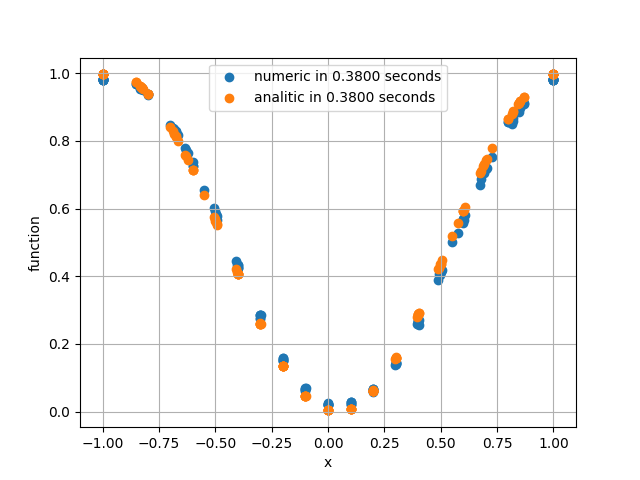
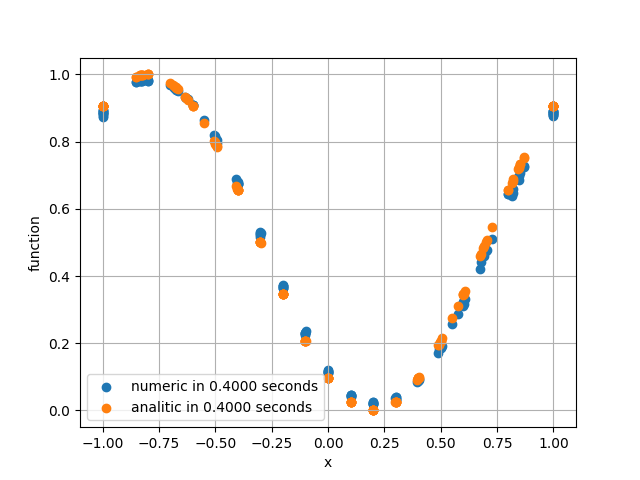
approximation

diff --git a/scripts/main.py b/scripts/main.py
@@ -2,6 +2,7 @@ import test
 import scipy as sp
 import numpy as np
 import time
+import matplotlib.pyplot as plt
 
 f = open('../rez/main_rez.txt', 'w')
 
@@ -9,7 +10,9 @@ scale = [0.2, 0.1, 0.05, 0.025, 0.0125]
 
 r = []
 h = []
-for i in range(2):
+hh = []
+h_d = []
+for i in range(5):
     print(i)
     f.write(str(i) + ' scale: ' + str(scale[i]) + ' ')
     start_time = time.time()
@@ -17,12 +20,32 @@ for i in range(2):
     f.write('dots: ' + str(tmp[1]) + ' step: '
             + str("{:10.4e}".format(1 / np.sqrt(tmp[1]))) + ' ')
     r.append(np.log(tmp[0]))
+    h_d.append(np.log(1 / tmp[1]))
+    hh.append(np.log(scale[i]))
     h.append(np.log(1 / np.sqrt(tmp[1])))
-    f.write('time: ' + str("{:10.4e}".format(time.time() - start_time)) + '\n')
+    f.write('time: ' + "%.4f"%(time.time() - start_time) + '\n')
 
 
 
 fp, residuals, rank, sv, rcond = sp.polyfit(h, r, 1, full=True)
-func = sp.poly1d(fp)
-f.write('\n' + 'function: ' + str(func) + '\n')
+func_1 = sp.poly1d(fp)
+f.write('\n' + 'function_(1/sqrt(dots)): ' + str(func_1) + '\n')
+fp, residuals, rank, sv, rcond = sp.polyfit(hh, r, 1, full=True)
+func_2 = sp.poly1d(fp)
+f.write('\n' + 'function_(scale): ' + str(func_2) + '\n')
+fp, residuals, rank, sv, rcond = sp.polyfit(h_d, r, 1, full=True)
+func_3 = sp.poly1d(fp)
+f.write('\n' + 'function_(1 / dots): ' + str(func_3) + '\n')
 f.close()
+plt.scatter(h, r, c='r', label=r'$\frac{1}{\sqrt{dots}}$')
+plt.scatter(hh, r, c='g',label=r'$\frac{1}{scale}$')
+plt.scatter(h_d, r, c='b',label=r'$\frac{1}{dots}$')
+plt.plot(h, list(map(lambda t: t * func_1[1] + func_1[0], h)),'--', c='r',
+         label=func_1)
+plt.plot(hh, list(map(lambda t: t * func_2[1] + func_2[0], hh)),'--', c='g',
+         label=func_2)
+plt.plot(h_d, list(map(lambda t: t * func_3[1] + func_3[0], h_d)),'--', c='b',
+         label=func_3)
+plt.legend()
+plt.grid(True)
+plt.savefig('../rez/main_rez.png')

diff --git a/scripts/calculate.py b/scripts/calculate.py
@@ -1,15 +1,25 @@
 import iter_
 import numpy as np
 import point
-import matplotlib.pyplot as plt
+#from mpi4py import MPI
+
+
 
 #calculate new slice of time
 def make_new_d(l, tau, TREE_OF_POINTS, prev_d, coord_to_name, doc):
+
+    #comm = MPI.COMM_WORLD
+    #rank = comm.Get_rank()
+    #size = comm.Get_size()
+
     d = {}
     doc.write('----------------level----------------------' + '\n')
     for j in range(2):
         perem = 'x' if j == 0 else 'y'
         doc.write(perem + '\n')
+
+        #comm.Barrier()
+
         for p in TREE_OF_POINTS.dots:
             inter_coord = determine_coord(p, l[j], tau, j, doc)
             coef, frame, bounds = interpolate_polinom(prev_d, TREE_OF_POINTS,
@@ -17,6 +27,9 @@ def make_new_d(l, tau, TREE_OF_POINTS, prev_d, coord_to_name, doc):
             new_value = generate_new_value(inter_coord, coef, frame,
                                            doc, bounds)
             d[coord_to_name(p)] = new_value
+
+        #comm.Barrier()
+
         prev_d = d.copy()
     doc.write('-------------------------------------------' + '\n')
     return d

diff --git a/scripts/test.py b/scripts/test.py
@@ -12,12 +12,13 @@ def make_data(num):
     # calculate
     rez = rezult.REZULT(num)
     for n in range(1, ic.N):
-        rez.draw(ic.x, z, analitic_solve[n - 1], n, ic.N)
+        rez.draw(ic.x, z, analitic_solve[n - 1], n - 1, ic.N)
         rez.upgrade_error(n, ic.N, z, analitic_solve[n - 1])
         d = calculate.make_new_d(ic.l, ic.tau, ic.TREE_OF_POINTS,
                              d, ic.coord_to_name, rez.doc)
         z = ic.make_z(d)
 
+    rez.draw(ic.x, z, analitic_solve[-1], ic.N - 1, ic.N)
     rez.upgrade_error(ic.N, ic.N, z, analitic_solve[-1])
     rez.finish()
     return rez.err.e1[-1], len(ic.DOTS)

diff --git a/scripts/rezult.py b/scripts/rezult.py
@@ -16,9 +16,9 @@ class REZULT:
         T = 10
         if n % T == 0:
             plt.scatter(x, z1, label='numeric in '
-                                 + str('%.4f' % ((n - 1) / (N - 1))) + ' seconds')
+                                 + str('%.4f' % (n / (N - 1))) + ' seconds')
             plt.scatter(x, z2, label='analitic in '
-                                 + str('%.4f' % ((n - 1) / (N - 1))) + ' seconds')
+                                 + str('%.4f' % (n / (N - 1))) + ' seconds')
             plt.xlabel('x')
             plt.ylabel('function')
             plt.grid(True)
